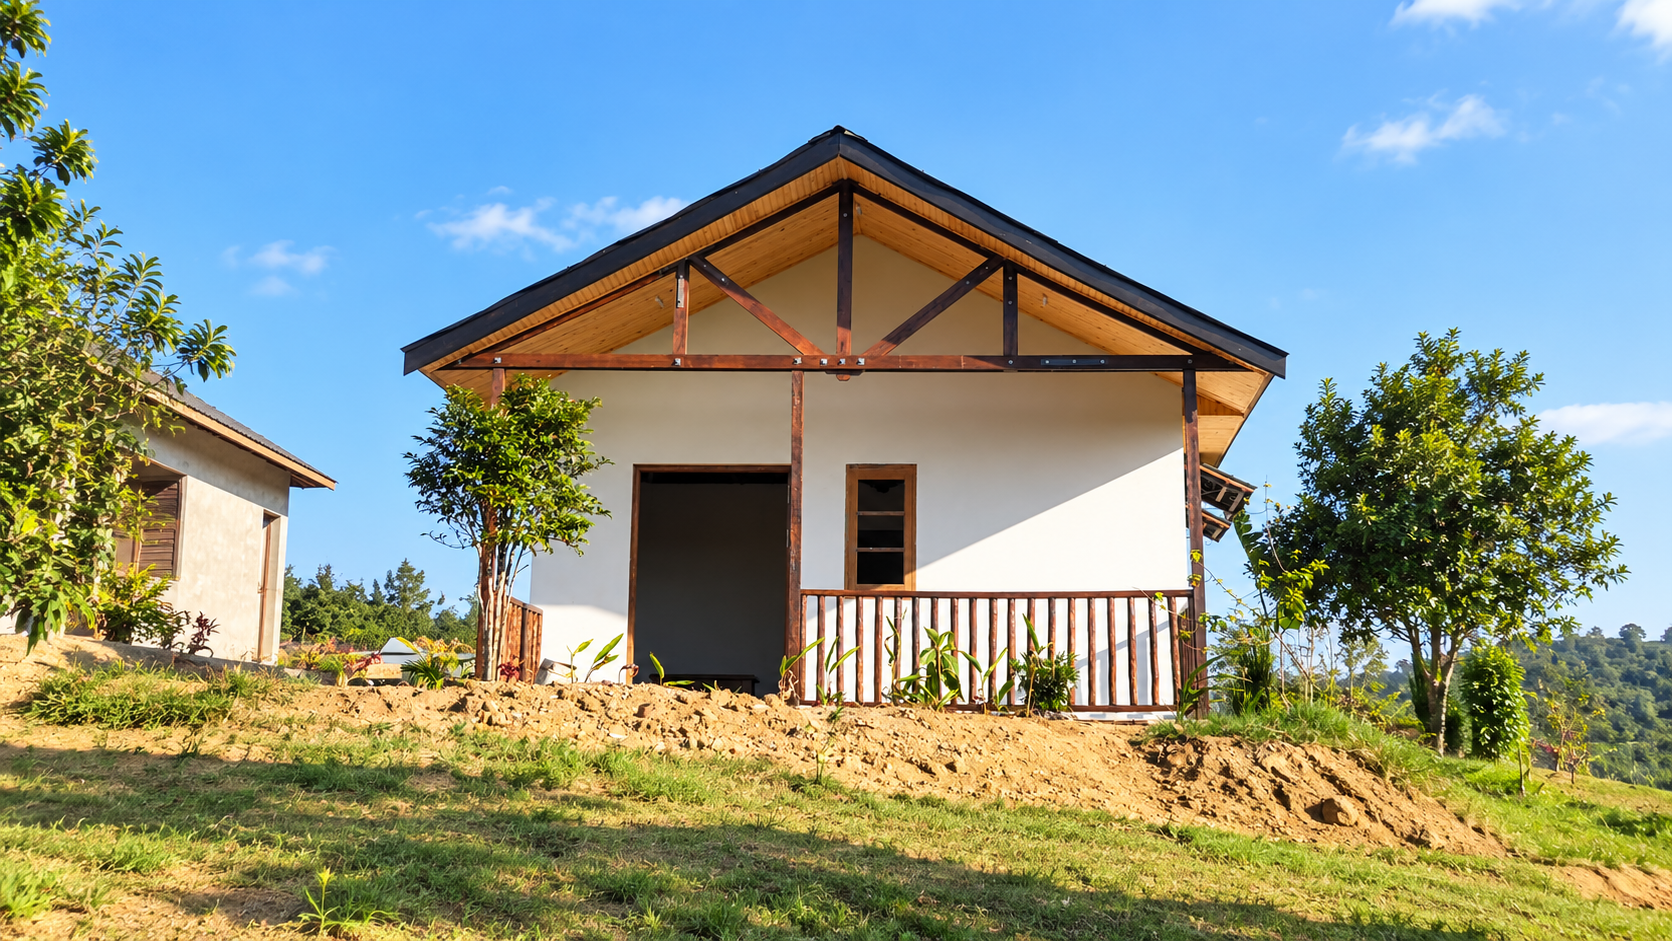
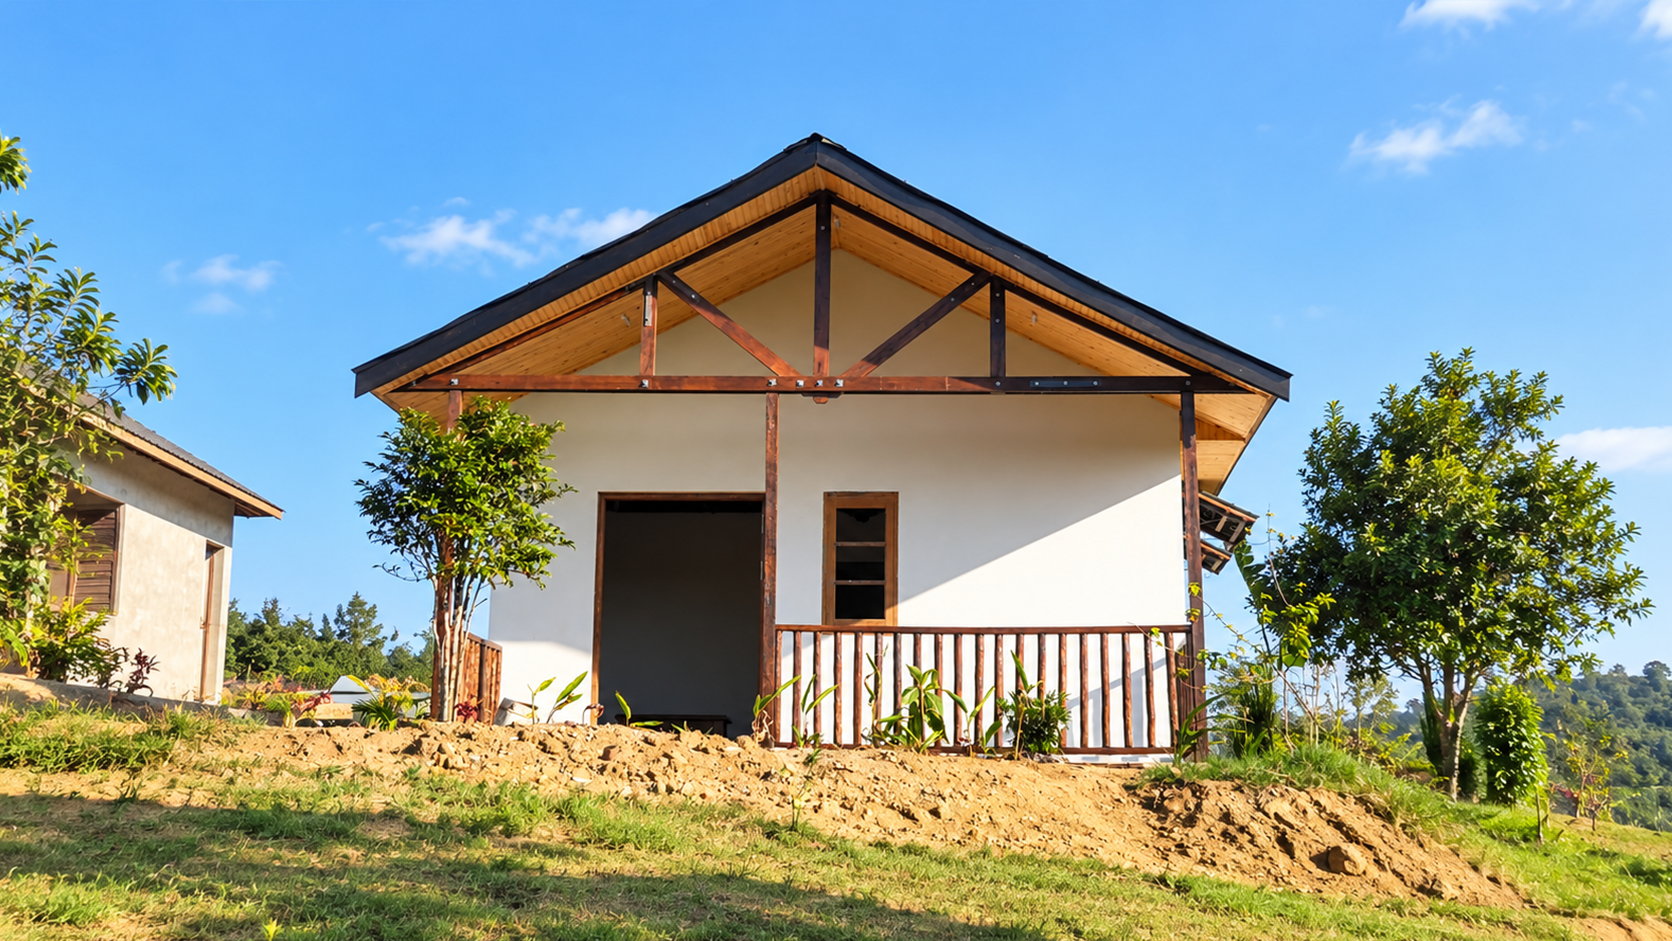
Update image sources in index.html and enhance compare functionality in main.js with auto-play and improved interaction handling. Added new dezoom images for better visual comparison.

diff --git a/main.js b/main.js
@@ -144,18 +144,79 @@ document.querySelectorAll(".facts article, .lead p, .compare, .project, .section
 
 document.querySelectorAll(".hero-media, .media, .project-preview, .compare-frame").forEach((el) => watch(el));
 
-document.querySelectorAll(".compare-frame").forEach((frame) => {
+document.querySelectorAll(".compare-frame").forEach((frame, index) => {
   const range = frame.querySelector(".compare-range");
+  const minPos = 8;
+  const maxPos = 92;
+  const goMs = 5600;
+  const holdMs = 1200;
+  const cycleMs = (goMs + holdMs) * 2;
+  const staggerMs = index * 1400;
+  let auto = false;
+  let raf = 0;
+  let origin = 0;
+  let resumeTimer = 0;
+  let inView = false;
+  let held = false;
 
   const setPos = (value) => {
     const next = Math.min(100, Math.max(0, Number(value)));
     frame.style.setProperty("--pos", `${next}%`);
-    if (range.value !== String(next)) range.value = String(next);
+    const rounded = String(Math.round(next));
+    if (range.value !== rounded) range.value = rounded;
   };
 
-  setPos(range.value);
+  const ease = (t) => 0.5 - 0.5 * Math.cos(Math.PI * Math.min(1, Math.max(0, t)));
 
-  range.addEventListener("input", () => setPos(range.value));
+  const autoPos = (now) => {
+    const t = ((now - origin + staggerMs) % cycleMs + cycleMs) % cycleMs;
+    if (t < goMs) return minPos + (maxPos - minPos) * ease(t / goMs);
+    if (t < goMs + holdMs) return maxPos;
+    if (t < goMs + holdMs + goMs) return maxPos - (maxPos - minPos) * ease((t - goMs - holdMs) / goMs);
+    return minPos;
+  };
+
+  const tick = (now) => {
+    if (!auto) return;
+    setPos(autoPos(now));
+    raf = requestAnimationFrame(tick);
+  };
+
+  const stopAuto = () => {
+    auto = false;
+    cancelAnimationFrame(raf);
+  };
+
+  const play = () => {
+    if (reduceMotion || !inView || auto || held) return;
+    auto = true;
+    origin = performance.now();
+    raf = requestAnimationFrame(tick);
+  };
+
+  const hold = () => {
+    held = true;
+    stopAuto();
+    window.clearTimeout(resumeTimer);
+  };
+
+  const scheduleResume = () => {
+    held = true;
+    stopAuto();
+    window.clearTimeout(resumeTimer);
+    resumeTimer = window.setTimeout(() => {
+      held = false;
+      play();
+    }, 3800);
+  };
+
+  setPos(reduceMotion ? range.value : minPos);
+
+  range.addEventListener("input", () => {
+    hold();
+    setPos(range.value);
+    scheduleResume();
+  });
 
   const posFromPointer = (event) => {
     const rect = frame.getBoundingClientRect();
@@ -165,6 +226,7 @@ document.querySelectorAll(".compare-frame").forEach((frame) => {
   frame.addEventListener("pointerdown", (event) => {
     if (event.pointerType === "mouse" && event.button !== 0) return;
     event.preventDefault();
+    hold();
     frame.setPointerCapture(event.pointerId);
     setPos(posFromPointer(event));
   });
@@ -173,6 +235,24 @@ document.querySelectorAll(".compare-frame").forEach((frame) => {
     if (!frame.hasPointerCapture(event.pointerId)) return;
     setPos(posFromPointer(event));
   });
+
+  frame.addEventListener("pointerup", scheduleResume);
+  frame.addEventListener("pointercancel", scheduleResume);
+
+  const updateView = () => {
+    const rect = frame.getBoundingClientRect();
+    const viewH = window.innerHeight || 1;
+    inView = rect.bottom > viewH * 0.12 && rect.top < viewH * 0.88;
+    if (inView) play();
+    else stopAuto();
+  };
+
+  if (!reduceMotion) {
+    new IntersectionObserver(updateView, { threshold: [0, 0.15, 0.4] }).observe(frame);
+    window.addEventListener("scroll", updateView, { passive: true });
+    window.addEventListener("resize", updateView);
+    requestAnimationFrame(updateView);
+  }
 });
 
 if (heroLogo) requestAnimationFrame(() => heroLogo.classList.add("is-shown"));

diff --git a/index.html b/index.html
@@ -79,8 +79,8 @@
         <div class="compare-grid">
           <figure class="compare">
             <div class="compare-frame" style="--pos: 50%;">
-              <img class="compare-after" src="images/p3.jpg" alt="Petite maison construite à Andasibe.">
-              <img class="compare-before" src="images/p4.jpg" alt="Élévation de la petite maison d’Andasibe.">
+              <img class="compare-after" src="images/P3-dezoom.png" alt="Petite maison construite à Andasibe.">
+              <img class="compare-before" src="images/P4-dezoom.png" alt="Élévation de la petite maison d’Andasibe.">
               <div class="compare-handle" aria-hidden="true">
                 <span class="compare-line"></span>
                 <span class="compare-knob">
@@ -102,8 +102,8 @@
 
           <figure class="compare">
             <div class="compare-frame" style="--pos: 50%;">
-              <img class="compare-after" src="images/p5.jpg" alt="Maison reprise à Ampandrianomby, façade et toiture.">
-              <img class="compare-before" src="images/p7.jpg" alt="Maison d’origine à Ampandrianomby, avant reprise.">
+              <img class="compare-after" src="images/P5-dezoom.png" alt="Maison reprise à Ampandrianomby, façade et toiture.">
+              <img class="compare-before" src="images/P7-dezoom.png" alt="Maison d’origine à Ampandrianomby, avant reprise.">
               <div class="compare-handle" aria-hidden="true">
                 <span class="compare-line"></span>
                 <span class="compare-knob">
